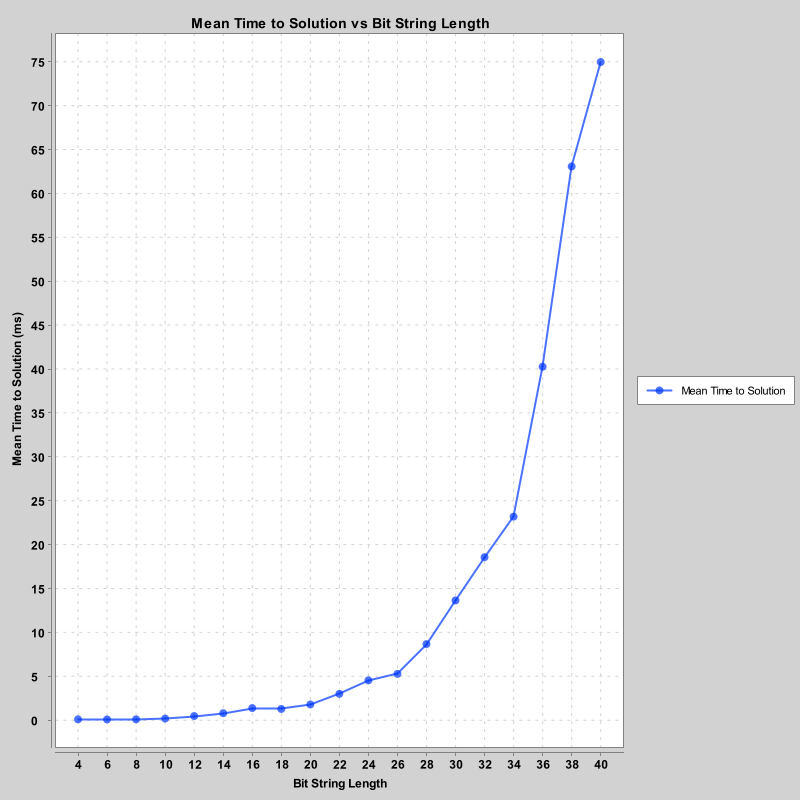
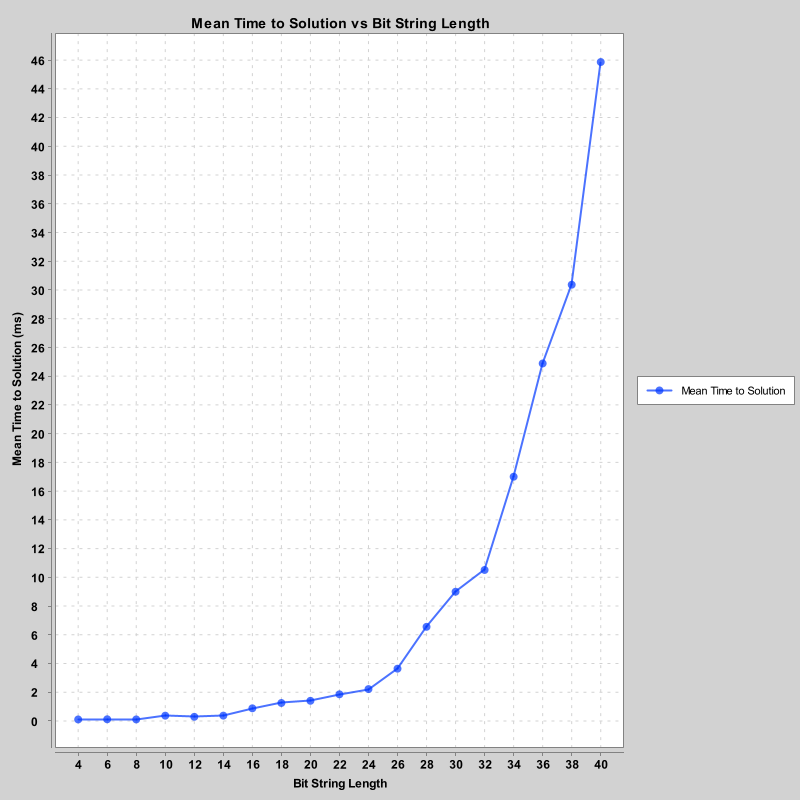
Code clean up
Cleaned up the code even more

diff --git a/Main/src/Genetic.java b/Main/src/Genetic.java
@@ -23,6 +23,7 @@ public class Genetic{
         if (mutationRate > 100) { //Throws an error if the mutation rate is more than 100, as having a more than 100% chance of a mutation happening is impossible
             throw new IllegalArgumentException("Mutation rate must be less than 100");
         }
+
     }
 
     public static int score(String bitString) {
@@ -119,36 +120,6 @@ public class Genetic{
 
             boolean parent1HasLowestScore;
 
-            //Check which parent has the lowest or highest score
-            if (parent1Score > parent2Score) { //Parent 2 has lowest score
-                parent1HasLowestScore = false;
-            } else { //Parent 1 has lowest score, or they have the same score
-                parent1HasLowestScore = true;
-            }
-
-            //Replace the parent with the lowest score with the child with the highest score
-            //If none of the conditions below are met, both children have lower scores then the parents, so nothing is replaced
-            if (child1Score > child2Score) { //Child 1 has higher score
-                //If the conditions below are not met, child1 has a lower score than either of the parents
-                if (parent1HasLowestScore && child1Score > parent1Score) { //Replacing parent 1
-                    populationArray[i] = children.getKey();
-                    indexWithPerfectSolution = i; //This value is only used if there has been a perfect solution
-                }
-                else if (!parent1HasLowestScore && child1Score > parent2Score) { //Replacing parent 2
-                    populationArray[i + 1] = children.getKey();
-                    indexWithPerfectSolution = i + 1;
-                }
-            } else { //Child 2 has a higher score, or they have the same score
-                if (parent1HasLowestScore && child2Score > parent1Score) {
-                    populationArray[i] = children.getValue();
-                    indexWithPerfectSolution = i;
-                }
-                else if (!parent1HasLowestScore && child2Score > parent2Score) {
-                    populationArray[i + 1] = children.getValue();
-                    indexWithPerfectSolution = i + 1;
-                }
-            }
-
             //Perfect solution has been reached
             if (child1Score == bitStringLen) {
                 hasReachedPerfectSolution = true;
@@ -157,9 +128,36 @@ public class Genetic{
                 hasReachedPerfectSolution = true;
                 return populationArray;
             }
+
+            // Evaluate children independently
+            boolean child1BeatsP1 = child1Score > parent1Score;
+            boolean child1BeatsP2 = child1Score > parent2Score;
+
+            boolean child2BeatsP1 = child2Score > parent1Score;
+            boolean child2BeatsP2 = child2Score > parent2Score;
+
+            // Replace parent 1 with the stronger child that beats it
+            if (child1BeatsP1 || child2BeatsP1) {
+                if (child1Score >= child2Score) {
+                    populationArray[i] = children.getKey(); // Child 1
+                    indexWithPerfectSolution = i;
+                } else {
+                    populationArray[i] = children.getValue(); // Child 2
+                    indexWithPerfectSolution = i;
+                }
+            }
+            // Replace parent 2 with the stronger child that beats it
+            if (child1BeatsP2 || child2BeatsP2) {
+                if (child1Score >= child2Score) {
+                    populationArray[i + 1] = children.getKey(); // Child 1
+                    indexWithPerfectSolution = i + 1;
+                } else {
+                    populationArray[i + 1] = children.getValue(); // Child 2
+                    indexWithPerfectSolution = i + 1;
+                }
+            }
         }
 
-        //System.out.println("One generation pass has occurred");
         return populationArray;
     }
 
@@ -173,8 +171,8 @@ public class Genetic{
 
         //Running all generations until a perfect solution is reached
         while (!hasReachedPerfectSolution) {
-            generationCount++;
             populationArray = runGeneration(bitStringLen, populationSize, populationArray);
+            generationCount++;
         }
 
         double endTime  = timer.stopTimer(startTimer);

diff --git a/Main/src/Graphing.java b/Main/src/Graphing.java
@@ -1,33 +1,16 @@
 //using xchart as its lightweight and exports as an image file
 import org.knowm.xchart.*;
-
 import java.io.IOException;
 
 public class Graphing {
 
+    //Double data for the x and y-axis
     private final double[] x;
     private final double[] y;
 
     public Graphing(double[] x, double[] y) {
         this.x = x;
         this.y = y;
-    }
-
-    public void chartTest(double[] x, double[] y) throws IOException {
-        //Creating chart
-        XYChart xyChart = new XYChartBuilder()
-                .width(800)
-                .height(600)
-                .title("Test Chart")
-                .xAxisTitle("X")
-                .yAxisTitle("Y")
-                .build();
-
-        //Adding data to chart
-        xyChart.addSeries("Test", x, y);
-
-        //Saving as image file
-        BitmapEncoder.saveBitmap(xyChart, "mychart", BitmapEncoder.BitmapFormat.PNG);
     }
 
     public void createXYChart(double[] x, double[] y, String title, String xTitle, String yTitle, String seriesName, String fileName, int width, int height) throws IOException {

diff --git a/Main/src/Main.java b/Main/src/Main.java
@@ -2,20 +2,11 @@ import java.io.IOException;
 
 public class Main {
 
-    private static Main instance;
-
-    Main() {
-        instance = this;
-    }
-
-    public static Main getInstance() {
-        if (instance == null) {
-            instance = new Main();
-        }
-        return instance;
-    }
-
     public static void main(String[] args) throws IOException {
+
+
+        //Genetic genetic = new Genetic(10 ,100,15);
+        //genetic.runAllGenerations();
 
         int minBitStringLen = 4;
         int maxBitStringLen = 42;
@@ -49,6 +40,12 @@ public class Main {
 
         Graphing graphing = new Graphing(x, y);
         graphing.createXYChart(x, y, "Mean Time to Solution vs Bit String Length", "Bit String Length ", "Mean Time to Solution (ms)", "Mean Time to Solution", "TimeVsBitStringLength", 800, 800);
+
+
     }
+
+
+
+
 
 }
